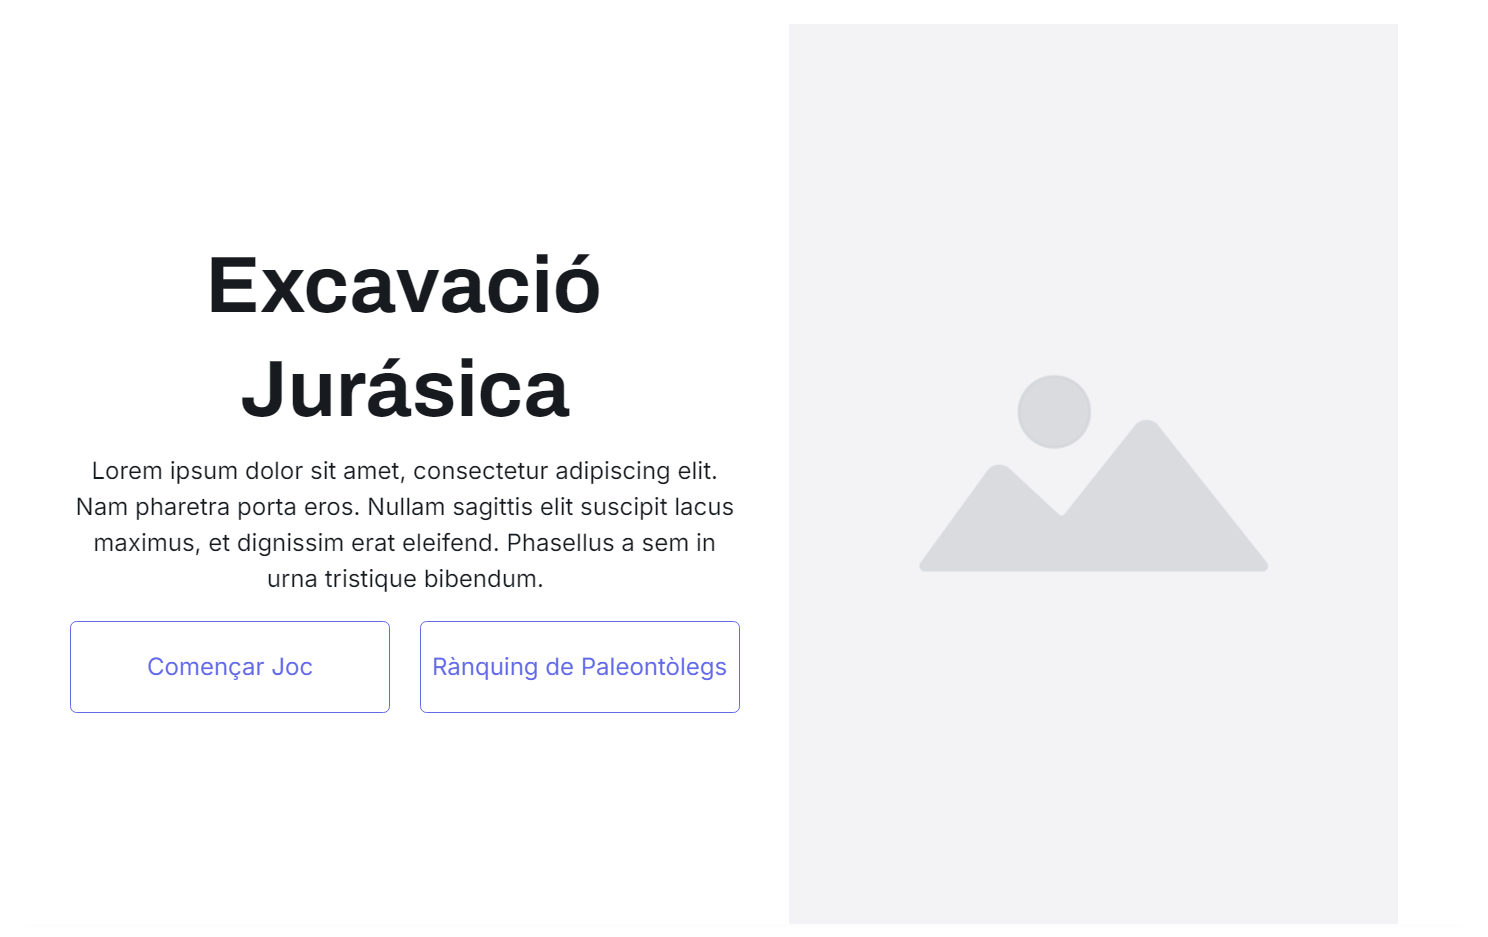
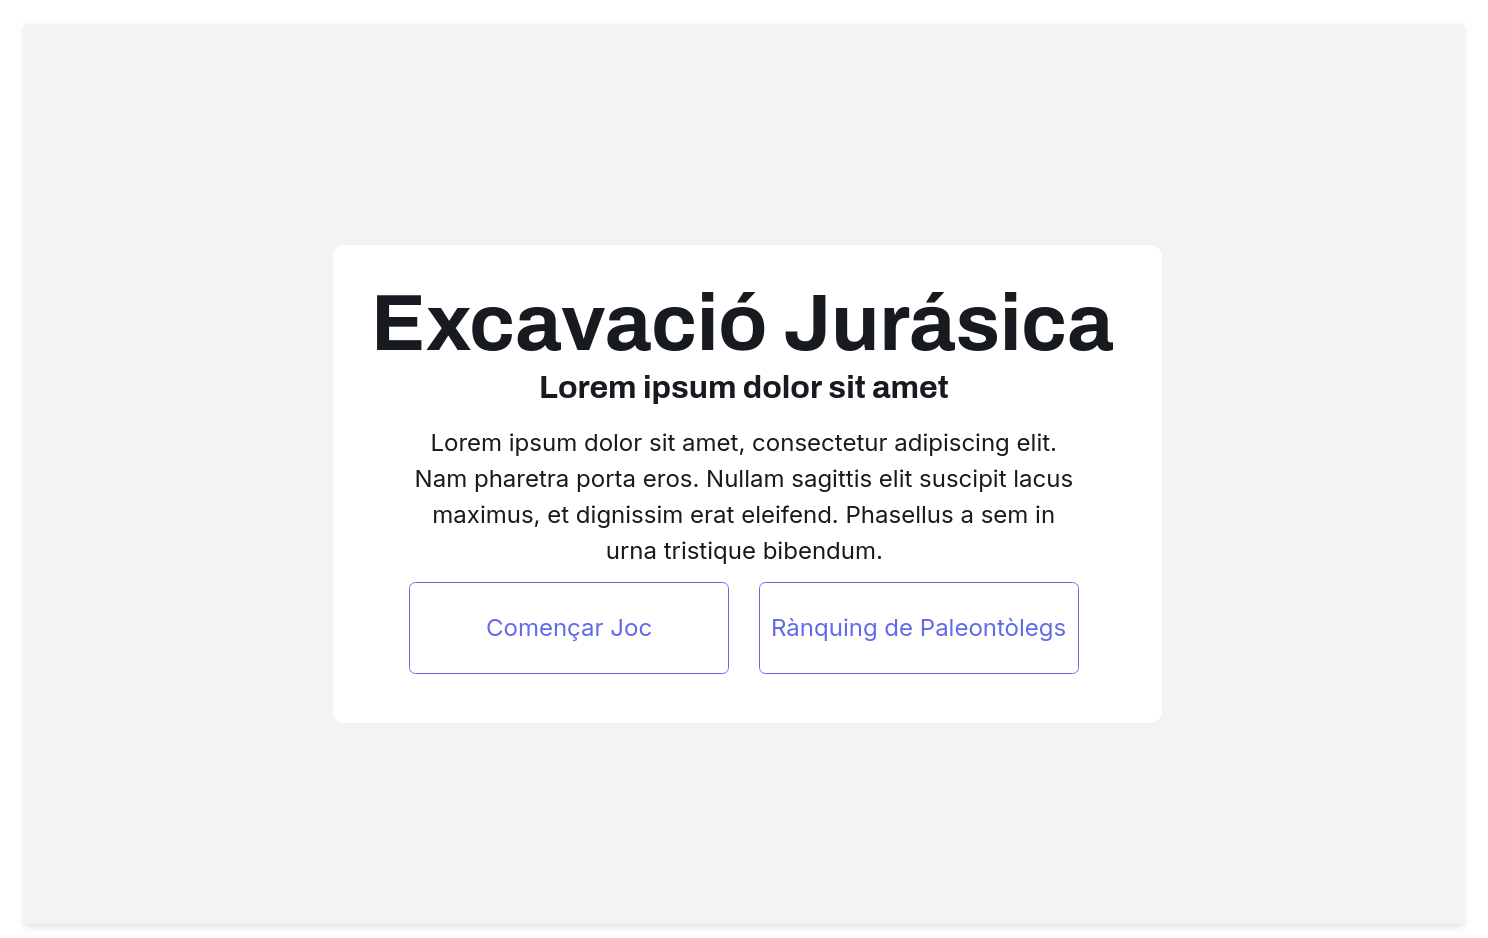
Wireframes arreglados, look & feel hecho y landing page

Changed region(s): [[0.0309, 0.2785, 0.8656, 0.7428], [0.4946, 0.6499, 0.711, 0.6809], [0.1237, 0.7118, 0.1855, 0.7428]]

diff --git a/style.css b/style.css
@@ -1,43 +1,135 @@
-body {
-    background-image: url(space.jpg);
+@import url('https://fonts.googleapis.com/css2?family=Akaya+Kanadaka&family=Inter:ital,opsz,wght@0,14..32,100..900;1,14..32,100..900&family=Merienda:wght@300..900&display=swap');
+
+html {
+    /* COLORS */
+    --background: #ede0d4;
+    --title_color: #ede0d4;
+    --secondary_div: #f5ddbd;
+    --board_header_row: #E1BB95;
+    --primary_div: #C39570;
+    --board_covered_cells: #9c6644;
+    --board_uncovered_cells: #864D31;
+    --button: #703722;
+    --board_borders: #4a160d;
+    --title-tape: #513f36;
+    --text_color: #232323;
+
+    /* FONTS */
+    --primary_title_font: "Merienda", cursive;
+    --secondary_title_font: "Akaya Kanadaka", system-ui;
+    --text_font: "Inter", sans-serif;
+}
+
+/*----------------*/
+* {
+    margin: 0;
+    cursor: default;
+}
+
+#landing_page {
+    background: url(./images/landing_page_bg.png);
     background-size: cover;
-    color: white;
-}
-
-h1 {
-    font-size: 60px;
-    text-shadow: 2px 2px 4px rgba(0, 0, 255, 0.5);
-}
-
-p {
-    font-size: 30px;
-    text-shadow: 2px 2px 4px rgba(0, 0, 255, 0.5);
-}
-
-button {
-    font-size: 20px;
-    background-color: white;
-    border: none;
-    padding: 10px 20px;
-    border-radius: 5px;
-    box-shadow: 0px 0px 5px rgba(0, 0, 0, 0.5);
-}
-
-.container {
+    margin: 0;
     display: flex;
-    width: 100%;
-    height: 100%;
+    height: 100vh;
+    align-items: center;
+    justify-content: center;
+
+    .hero {
+        background-color: #ffffff6e;
+        width: 1000px;
+        height: auto;
+        padding: 50px 0 50px;
+        display: flex;
+        flex-direction: column;
+        justify-content: center;
+        align-items: center;
+        text-align: center;
+        box-shadow: 0 4px 30px rgb(0, 0, 0);
+        backdrop-filter: blur(17px);
+        -webkit-backdrop-filter: blur(6.8px);
+        border-radius: 16px;
+    }
+
+    .button_container {
+        display: flex;
+        gap: 20px;
+    }
+
+    h1 {
+        color: var(--text_color);
+        font-family: var(--primary_title_font);
+        text-shadow: 3px 3px 0 #ffffff;
+        font-size: 6em;
+    }
+
+    h3 {
+        color: var(--text_color);
+        font-family: var(--secondary_title_font);
+        font-size: 2em;
+    }
+    
+    p {
+        color: var(--text_color);
+        font-family: var(--text_font);
+        padding: 30px 10% 30px;
+        font-size: 1.2em;
+        font-weight: 600;
+    }
+
+    button {
+        height: 80px;
+        width: 300px;
+        padding: 0 20px; 
+        display: flex; 
+        align-items: center; 
+        justify-content: center; 
+        font-family: var(--text_font);
+        background: #00000000; 
+        font-size: 1.2em;
+        font-weight: 600;   
+        color: var(--button); 
+        border: 3px solid var(--button);
+        border-radius: 30px;
+        gap: 10px;
+        box-shadow: 0px 0px 10px #00000038;
+        cursor: pointer;
+    }
+    
+    button:hover {
+        color: #fff;
+        background-color: var(--button);
+        transition-duration: .5s;
+    }
 }
 
-.content {
-    flex-basis: 50%;
+.nav-button {
+    position: absolute; 
+    top: 840px; 
+    height: 36px; 
+    padding: 0 20px; 
+    display: flex; 
+    align-items: center; 
+    justify-content: center; 
+    font-family: var(--text_font); 
+    font-size: 16px;
+    font-weight: 500; 
+    color: var(--button); 
+    background: #00000000;
+    border: 2px solid var(--button);
+    border-radius: 18px;
+    gap: 6px; 
+  }
+
+.nav-button:hover {
+    background-color: var(--button); 
+    color: #fff;
 }
 
-.shipImage {
-    flex-basis: 50%;
+.home-button {
+    left: 71px;
 }
 
-img {
-    width: 100%;
-    height: 100%;
+.rank-button {
+    right: 71px; 
 }

diff --git a/index.php b/index.php
@@ -1,26 +1,21 @@
 <!DOCTYPE html>
-<html lang="ca">
-
+<html lang="en">
 <head>
     <meta charset="UTF-8">
     <meta name="viewport" content="width=device-width, initial-scale=1.0">
-    <link rel="stylesheet" type="text/css" href="style.css">
-    <title>Batalla Naval</title>
+    <title>Excavació Jurásica</title>
+    <link rel="stylesheet" href="style.css">
+    <script src="https://kit.fontawesome.com/9c44094610.js" crossorigin="anonymous"></script>
 </head>
-
-<body>
-    <div class="container">
-        <div class="content">
-            <h1>Batala Naval</h1>
-            <p>Enfonsar la flota o jugar a barcos és un joc de taula per a dues persones que es pot jugar amb llapis i paper o en versions de tauler. El seu objectiu és endevinar la situació dels vaixells de l'enemic i enfonsar-los indicant-ne les coordenades. Les primeres versions van sorgir a finals del segle xix però es va popularitzar poc després de la primera guerra mundial</p>
-
-            <button onclick="location.href='game.php'">Partida clàssica</button>
-            <button onclick="location.href='ranking.php'">Hall of Fame</button>
-        </div>
-        <div class="shipImage">
-            <img src="ship.png" alt="Nau Espacial">
+<body id="landing_page"> 
+    <div class="hero">
+        <h1>Excavació Jurásica</h1>
+        <h3>Desenterra ossos de fa milions d'anys!</h3>
+        <p>Explora i excava per trobar ossos de dinosaures ocults sota terra. Tria les coordenades correctes i descobreix tresors prehistòrics. Seràs capaç de desenterrar-los tots?</p>
+            <div class="button_container">    
+            <button><i class="fa-solid fa-gamepad"></i>Començar Joc</button>
+            <button><i class="fa-solid fa-ranking-star"></i>Rànquing Paleontòlegs</button>
         </div>
     </div>
 </body>
-
 </html>

diff --git a/game.php b/game.php
@@ -1,0 +1,15 @@
+<!DOCTYPE html>
+<html lang="en">
+<head>
+    <meta charset="UTF-8">
+    <meta name="viewport" content="width=device-width, initial-scale=1.0">
+    <title>Document</title>
+    <link rel="stylesheet" href="style.css">
+    <script src="https://kit.fontawesome.com/9c44094610.js" crossorigin="anonymous"></script>
+</head>
+<body>
+    <h1>Excavació Juràssica</h1>
+    <button class="nav-button home-button"><i class="fa-solid fa-chevron-left icon"></i>Inici</button>
+    <button class="nav-button rank-button">Rànquing<i class="fa-solid fa-chevron-right icon"></i></button>
+</body>
+</html>

diff --git a/README.md b/README.md
@@ -29,6 +29,12 @@ Aquí és on comença la veritable acció! En la **Pàgina de Joc** podràs:
   <img src="./images/Game_screen.png" alt="Imatge 2: Pantalla de Joc" width="600"/>
 </p>
 
+Una vegada hagis guanyat, apareixerà una finestra on hauràs d'introduir el teu nom per guardar-lo i així poder aparèixer al **Rànquing de Paleontòlegs**. A més, en pantalla, a la part inferior dreta, apareixerà un botó que et permetrà dirigir-te al rànquing directament des de la pàgina de joc.
+
+<p align="center">
+  <img src="./images/win_alert.png" alt="Imatge Win: Finestra de win" width="300"/>
+</p>
+
 ### 3. Rànquing de Paleontòlegs
 Aquesta és la pàgina dels campions! En el **Rànquing de Paleontòlegs** podràs:
 - Veure el **rànquing** amb els paleontòlegs més famosos 🥇 i amb més fama acumulada.
@@ -47,3 +53,71 @@ A continuació, es mostra un **diagrama general** del wireframe del joc, incloen
 <p align="center">
   <img src="./images/wireframe_general.png" alt="Diagrama General del Wireframe"/>
 </p>
+
+---
+## 🎨 Look and Feel
+
+El disseny d'**Excavació Juràssica** segueix una estètica **rústica i terrosa**, evocant l'ambient d'una excavació paleontològica. El joc busca transportar el jugador a un entorn on la terra, les roques i els fòssils són protagonistes. A continuació, es detallen els elements clau del disseny visual i l'experiència d'usuari:
+
+### 🌈 Paleta de Colors
+
+La paleta de colors se centra en tonalitats càlides i terroses, per reflectir l'entorn d'una excavació arqueològica:
+
+- **Color de fons**: <span style="background-color:#ede0d4; border-radius: 10px; padding: 2px 10px; color: #232323;">#ede0d4</span> - Un to suau que emula la pols i la terra.
+- **Color dels títols**: <span style="background-color:#ede0d4; border-radius: 10px; padding: 2px 10px; color: #232323;">#ede0d4</span> - Utilitza el mateix to que el fons, donant una sensació d'integració amb la terra.
+- **Divs primaris**: <span style="background-color:#C39570; border-radius: 10px; padding: 2px 10px; color: black;">#C39570</span> - Tons de marró per a les àrees informatives principals.
+- **Divs secundaris**: <span style="background-color:#f5ddbd; border-radius: 10px; padding: 2px 10px; color: #232323;">#f5ddbd</span> - Una variació més clara per donar profunditat als contenidors informatius.
+- **Tauler - Files de capçalera**: <span style="background-color:#E1BB95; border-radius: 10px; padding: 2px 10px; color: #232323;">#E1BB95</span> - Un marró suau que serveix com a base per a les celdes.
+- **Celdes del tauler tapades**: <span style="background-color:#9c6644; border-radius: 10px; padding: 2px 10px; color: white;">#9c6644</span> - Celdes sense descobrir, similars a la terra seca.
+- **Celdes destapades sense res**: <span style="background-color:#864D31; border-radius: 10px; padding: 2px 10px; color: white;">#864D31</span> - Celdes buides després de l'excavació, que recorden la terra remoguda.
+- **Celdes destapades amb ossos**: <span style="background-color:#fffffd; border-radius: 10px; padding: 2px 10px; color: #232323;">#fffffd</span> - Un color clar per ressaltar la troballa de fòssils.
+- **Bordes del tauler**: <span style="background-color:#4a160d; border-radius: 10px; padding: 2px 10px; color: white;">#4a160d</span> - Un color fosc que defineix els límits de les celdes excavades.
+- **Botons**: <span style="background-color:#703722; border-radius: 10px; padding: 2px 10px; color: white;">#703722</span> - Els botons són transparents, però el text i els bordes utilitzen aquest marró profund. Al fer hover, el fons es torna d'aquest color amb text en blanc.
+- **Cinta del títol**: <span style="background-color:#513f36; border-radius: 10px; padding: 2px 10px; color: white;">#513f36</span> - Un marró grisenc utilitzat com a fons per al títol, semblant a la cinta de paper.
+- **Color del text**: <span style="background-color:#232323; border-radius: 10px; color: white; padding: 2px 10px;">#232323</span> - Un gris fosc que assegura la llegibilitat.
+
+### ✒ Tipografia
+
+L'elecció de les tipografies s'ha fet per reforçar l'estètica de **paleontologia** i aventura. Cada tipus de text té el seu propi estil per transmetre la seva importància i funció dins del joc:
+
+- **Títol Principal**: Utilitza la font **Inknut Antiqua**, que és un estil més **elegant i clàssic**. Aquesta font es fa servir per als títols principals, donant una sensació d'importància i història.
+
+- **Títols Secundaris**: Es fa servir la font **Akaya Kanadaka**, que té un toc més **desenfadat i manuscrit**. S'assembla a l'escriptura a mà, destacant aquells títols amb menys rellevància però mantenint l'ambient rústic.
+
+- **Text Pla**: Per al cos del text, s'utilitza la font **Inter**, que és una font **neta, plana i senzilla**, assegurant una llegibilitat clara i diferenciant el text pla del contingut més decoratiu o destacat.
+
+### 🔘 Botons i Interactivitat
+
+Els botons juguen un paper crucial en la navegació i l'experiència d'usuari:
+
+- **Estil General dels Botons**: Els botons tenen un disseny transparent amb un **borde i text del color #703722**. Al passar el cursor per sobre (**hover**), el fons del botó es torna del mateix color i el text es fa de color blanc, creant una **transició suau de 0.5 segons** que dona una sensació de fluïdesa.
+
+- **Botons de la Pàgina d'Inici**: Els botons a la pàgina d'inici són **més grans** i amb una **tipografia de major mida**, convidant l'usuari a començar el joc o a accedir al rànquing. Inclouen icones SVG, com un **control de joc** per a l'inici de la partida o un **podi** per accedir al rànquing.
+
+- **Botons de Navegació**: A les altres pàgines, els botons que permeten la navegació són **més petits**, però mantenen el mateix estil visual. Alguns d'aquests botons tenen icones de **fletxes**, indicant que l'usuari pot avançar o retrocedir en la seva experiència.
+
+### 🏞 Imatges i Fons
+
+Per completar l'estètica rústica, es fa servir una única **imatge de fons** en la **pàgina d'inici**, que evoca l'ambient d'una excavació enmig de la natura, amb terra, roques i fòssils. Aquesta imatge immersiva ajuda a que el jugador se submergeixi en el paper de paleontòleg.
+
+A més, es fan servir **icones SVG** de **[Font Awesome](https://fontawesome.com)** per millorar la interactivitat i fer que la navegació per la web sigui més intuïtiva. Aquests icones proporcionen pistes visuals que guien l'usuari a través de les diferents opcions disponibles.
+
+#### 🌅 Imatge de Fons
+![Imatge de Fons](./images/landing_page_bg.png) <!-- Assegura't d'afegir l'enllaç correcte a la imatge de fons -->
+
+#### 🌟 Icones Utilitzats
+Els següents icones **SVG** de **[Font Awesome](https://fontawesome.com)** es fan servir per millorar la interactivitat dels botons i proporcionar una millor experiència d'usuari:
+
+- **Botó de Començar Joc**: `<i class="fa-solid fa-gamepad"></i>` 
+- **Botó de Rànquing**: `<i class="fa-solid fa-ranking-star"></i>`
+- **Botó de Tornar**: `<i class="fa-solid fa-chevron-left"></i>`
+- **Botó d'Avançar**: `<i class="fa-solid fa-chevron-right"></i>`
+
+A més, s'utilitza un **SVG** amb forma de **dinosaure** 🦖 per decorar els títols de les pàgines de **Rànquing** i **Joc**, aportant un toc temàtic que reforça l'ambient d'excavació i paleontologia del joc.
+
+
+### 🌿 Estètica General
+
+L'estètica general de **Excavació Juràssica** busca crear una atmosfera de descoberta i aventura. Amb els seus colors terrosos, tipografies evocadores i disseny minimalista però detallat, el joc transporta l'usuari a un entorn paleontològic. Cada element visual, des dels **botons** fins a les **celdes del tauler**, està pensat per reforçar aquest ambient.
+
+L'objectiu és fer que el jugador se senti com un paleontòleg en una excavació, buscant fòssils entre la terra, mentre gestiona el temps i la fama que guanya en el procés.
